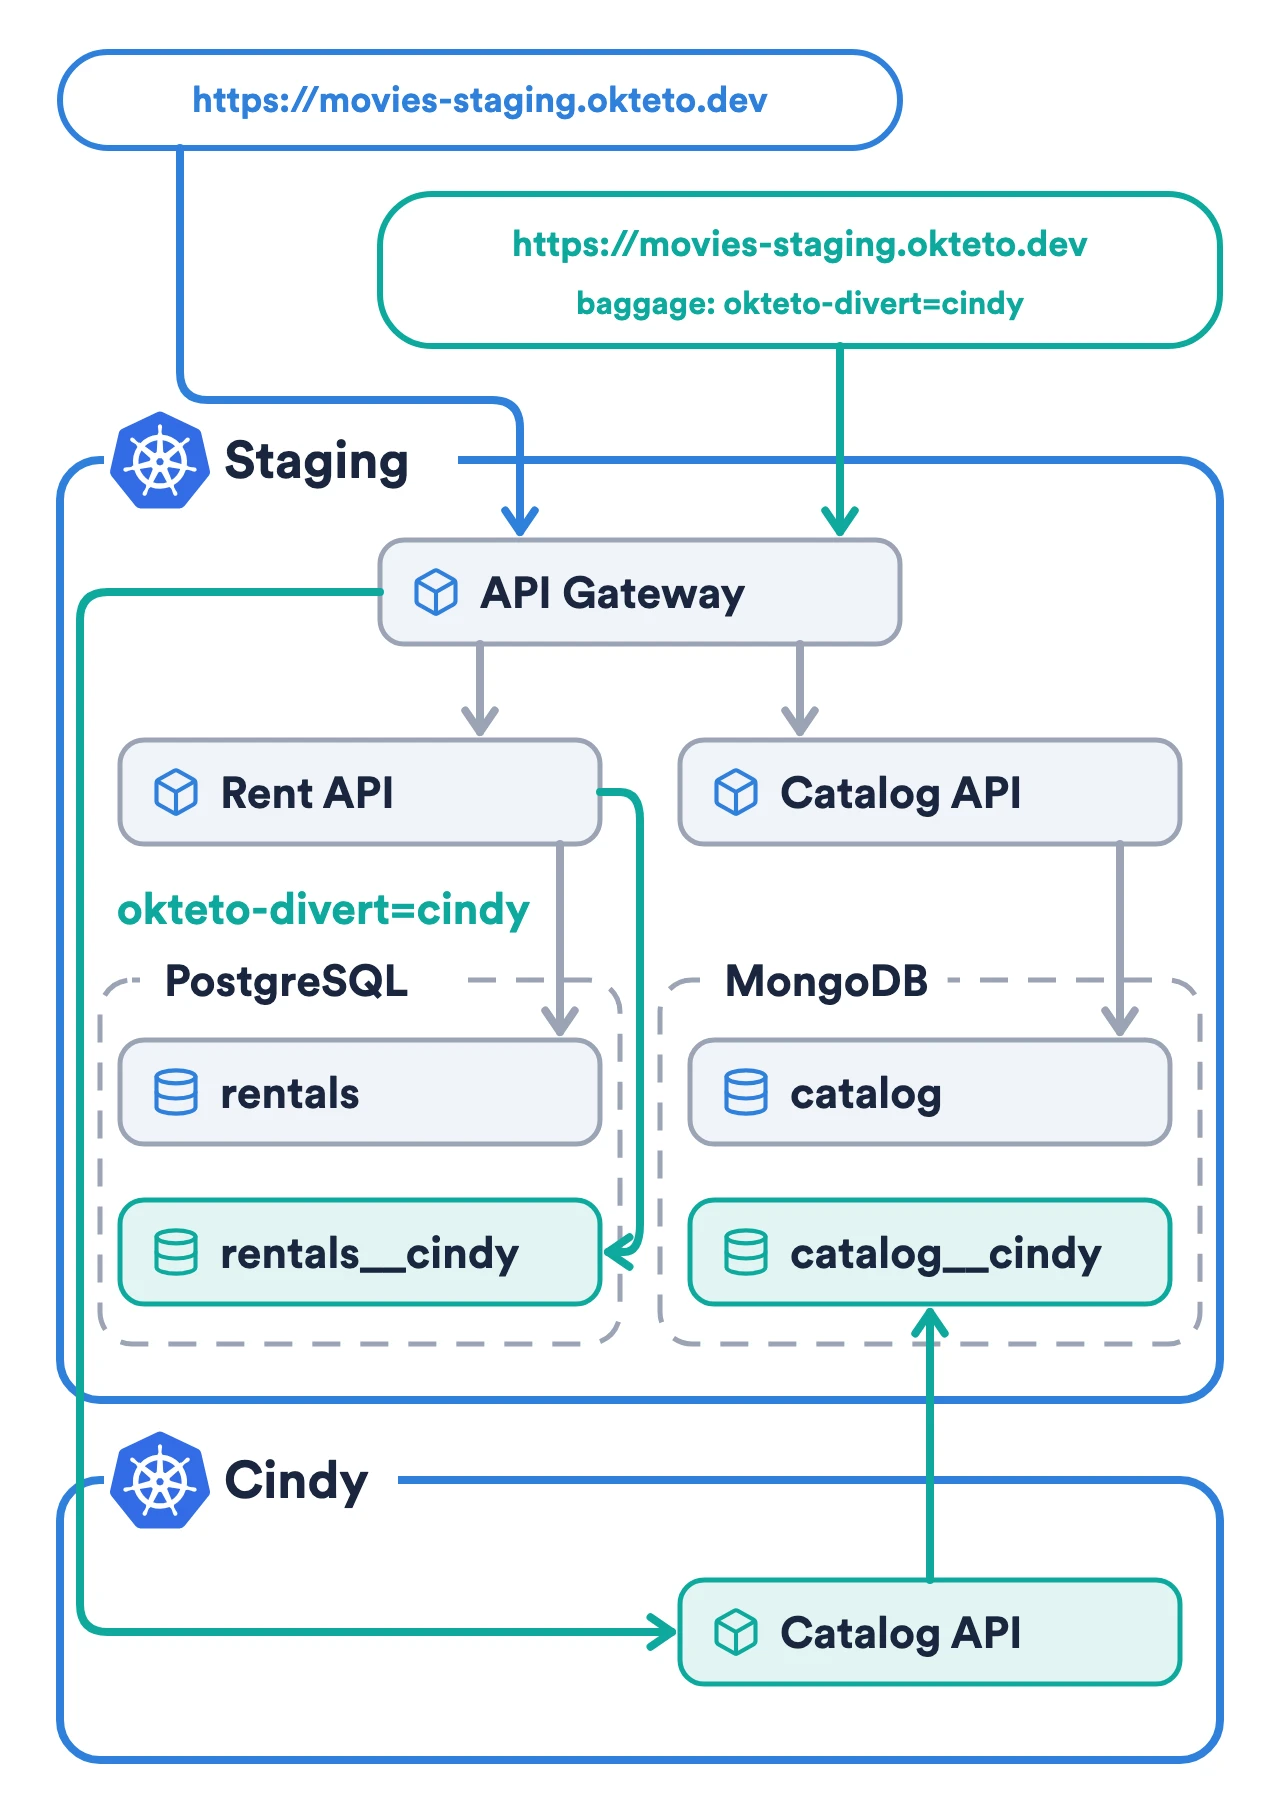
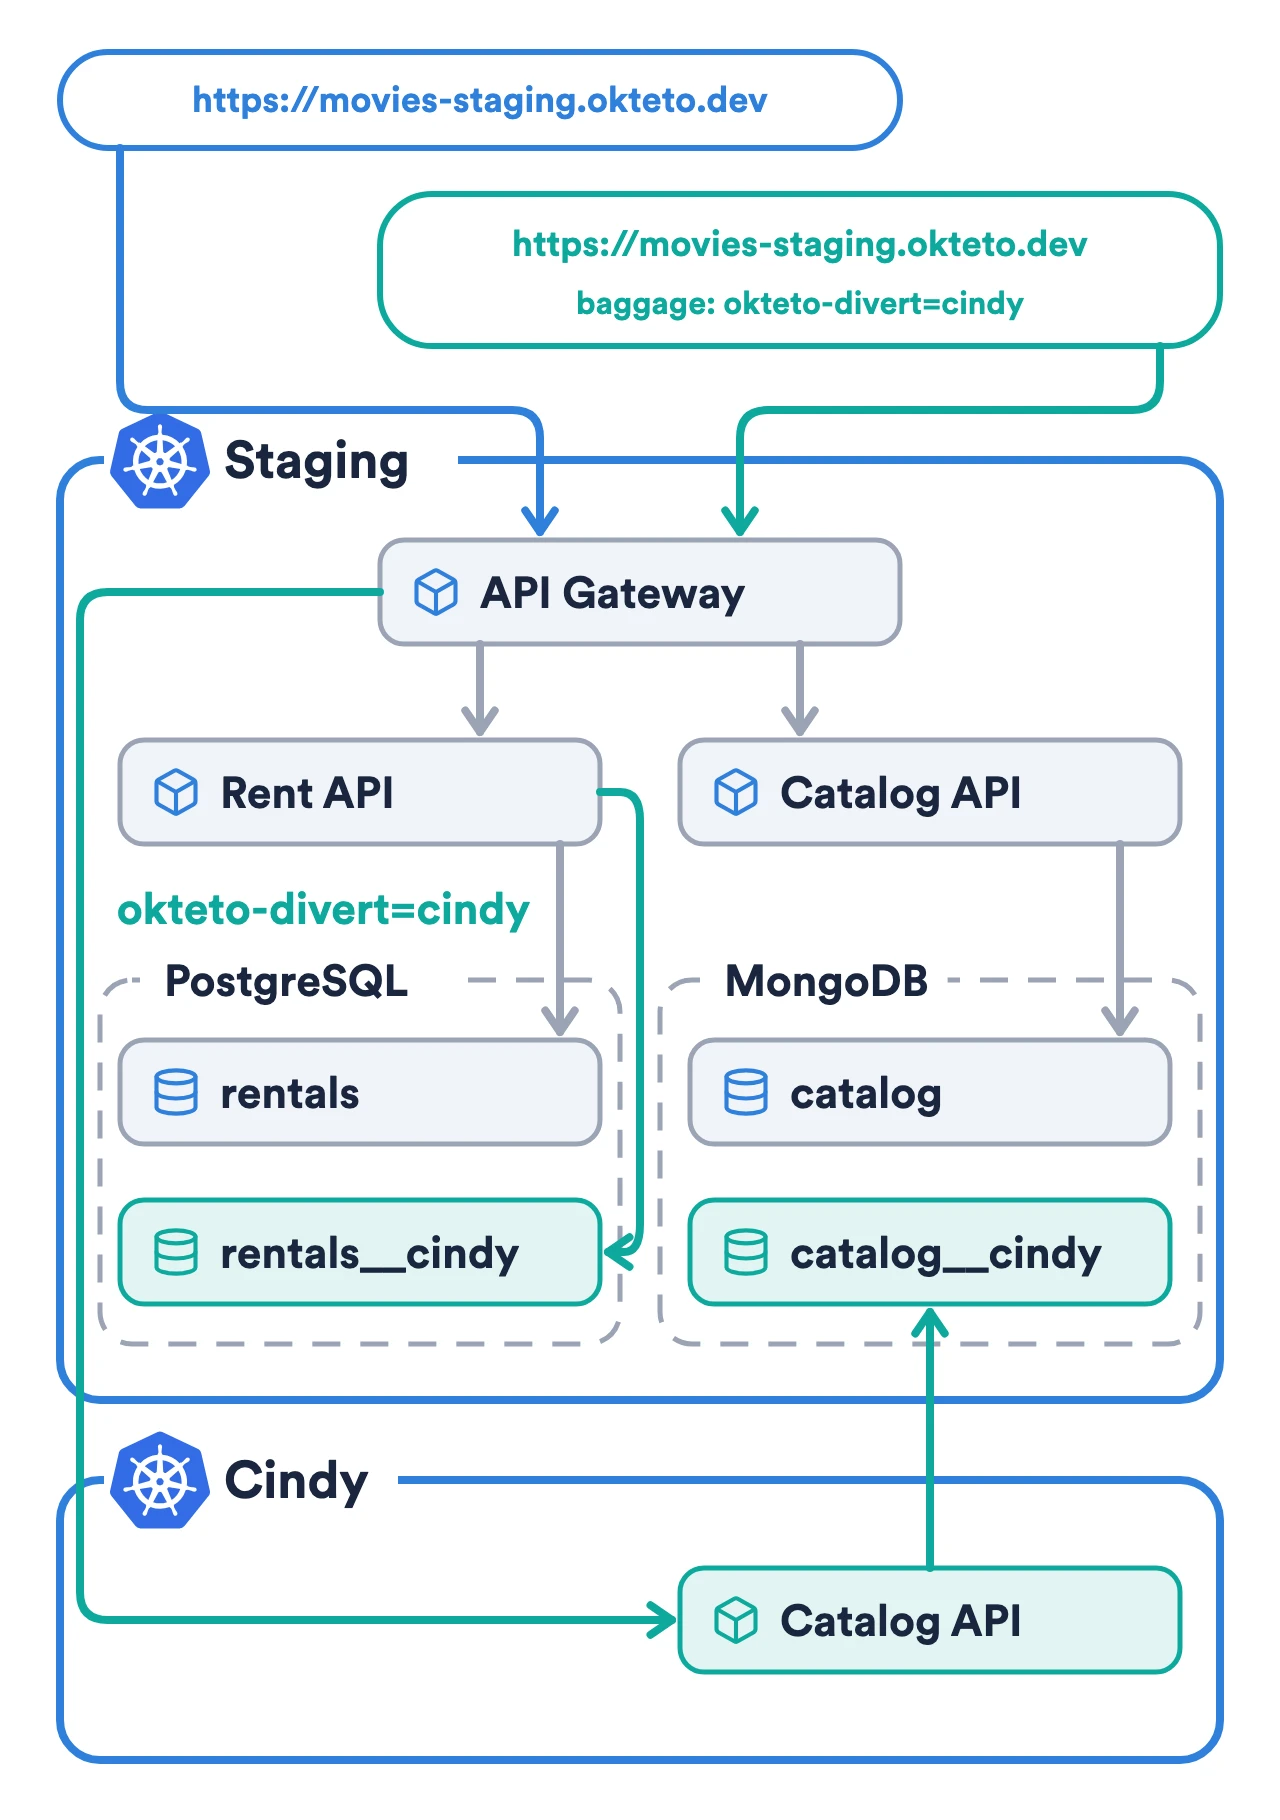
Divert diagrams: symmetric layouts in every diagram, and the rule in the style guide
- Queue splitting: each subsystem has the same padding on every side and
  50px between its dashed border and the services, so the arrows that
  enter it have room. Every Namespace keeps the same distance to its
  subsystems, and the API Gateway sits halfway between the two API rows.
- Message routing and data cloning: mirrored endpoints, Namespaces of the
  same height, evenly spaced rows, and database servers with equal
  paddings.
- Where arrows enter a Namespace through the left of its top edge, its
  name goes at the right, so no arrow runs over it.
- AGENTS.md and STYLE_GUIDE.md state the symmetry checklist for diagrams.

Changed region(s): [[0.0625, 0.8615, 0.9375, 0.9538], [0.0938, 0.0923, 0.4375, 0.3077], [0.5625, 0.2154, 0.9062, 0.3077]]

diff --git a/AGENTS.md b/AGENTS.md
@@ -118,6 +118,13 @@ Diagrams in the docs share these shapes. The `deploy-movies-app` and `environmen
 - **An endpoint** (a URL, a path such as `/api`) is a pill: a rounded box whose radius is half its height. Pills that lead into an environment sit on its border, with the same height, and end at the same point inside it. A long URL can go down to 18px so its pill doesn't take the whole width.
 - **Arrows** are short, and the arrows of the same flow have the same length. Draw only the connections the page explains.
 - **Balance:** center the drawing on the canvas, with the same white space on each side.
+- **Symmetry, always:** it's the first thing a reader notices when it's missing. Check each of these before you render:
+  - A box has the same padding above and below its content, and the same on its left and right. Boxes of the same kind (two Namespaces, two dashed groups) use the same paddings in every diagram of a page.
+  - A box inside another keeps the same distance to its container wherever it appears: the gap between a dashed group and the bottom of its Namespace is the same in every Namespace.
+  - An element that feeds two others sits halfway between them, and its two arrows mirror each other. Two elements that feed one enter it at the same distance from its center.
+  - An arrow that enters a box has room: leave about 50px between the border it crosses and the element it points to, so the arrowhead doesn't touch the border.
+  - An arrow never runs over a label. When arrows enter a Namespace through the left of its top edge, put its name at the right of the edge.
+- **Text hierarchy:** in an endpoint with a second line, such as a request header under its URL, the second line is smaller than the URL.
 
 ### Logos and icons
 

diff --git a/STYLE_GUIDE.md b/STYLE_GUIDE.md
@@ -211,6 +211,8 @@ Images inside a page (docs, tutorials, and blog posts) have a white background, 
 
 Diagrams and covers are drawn with `scripts/covers` in the docs, the tutorials, and the blog alike (diagrams with `background: 'white'`): see "Images" in [`AGENTS.md`](AGENTS.md#images).
 
+Diagrams are symmetric. Before you publish one, check that every box has the same padding above and below its content and on both sides, that boxes of the same kind use the same paddings across the diagrams of a page, that an element connected to two others sits halfway between them with mirrored arrows, and that no arrowhead touches the border it just crossed or runs over a label. The full checklist is in [`AGENTS.md`](AGENTS.md#images).
+
 ### Version numbers
 
 Never hardcode the Okteto CLI, Helm chart, or Kubernetes versions. Import them from `src/content/variables.json` (`import variables from '../variables.json';`, with the path relative to the page) and write `{variables.cliVersion}`, or `${variables.cliVersion}` inside a template literal.
